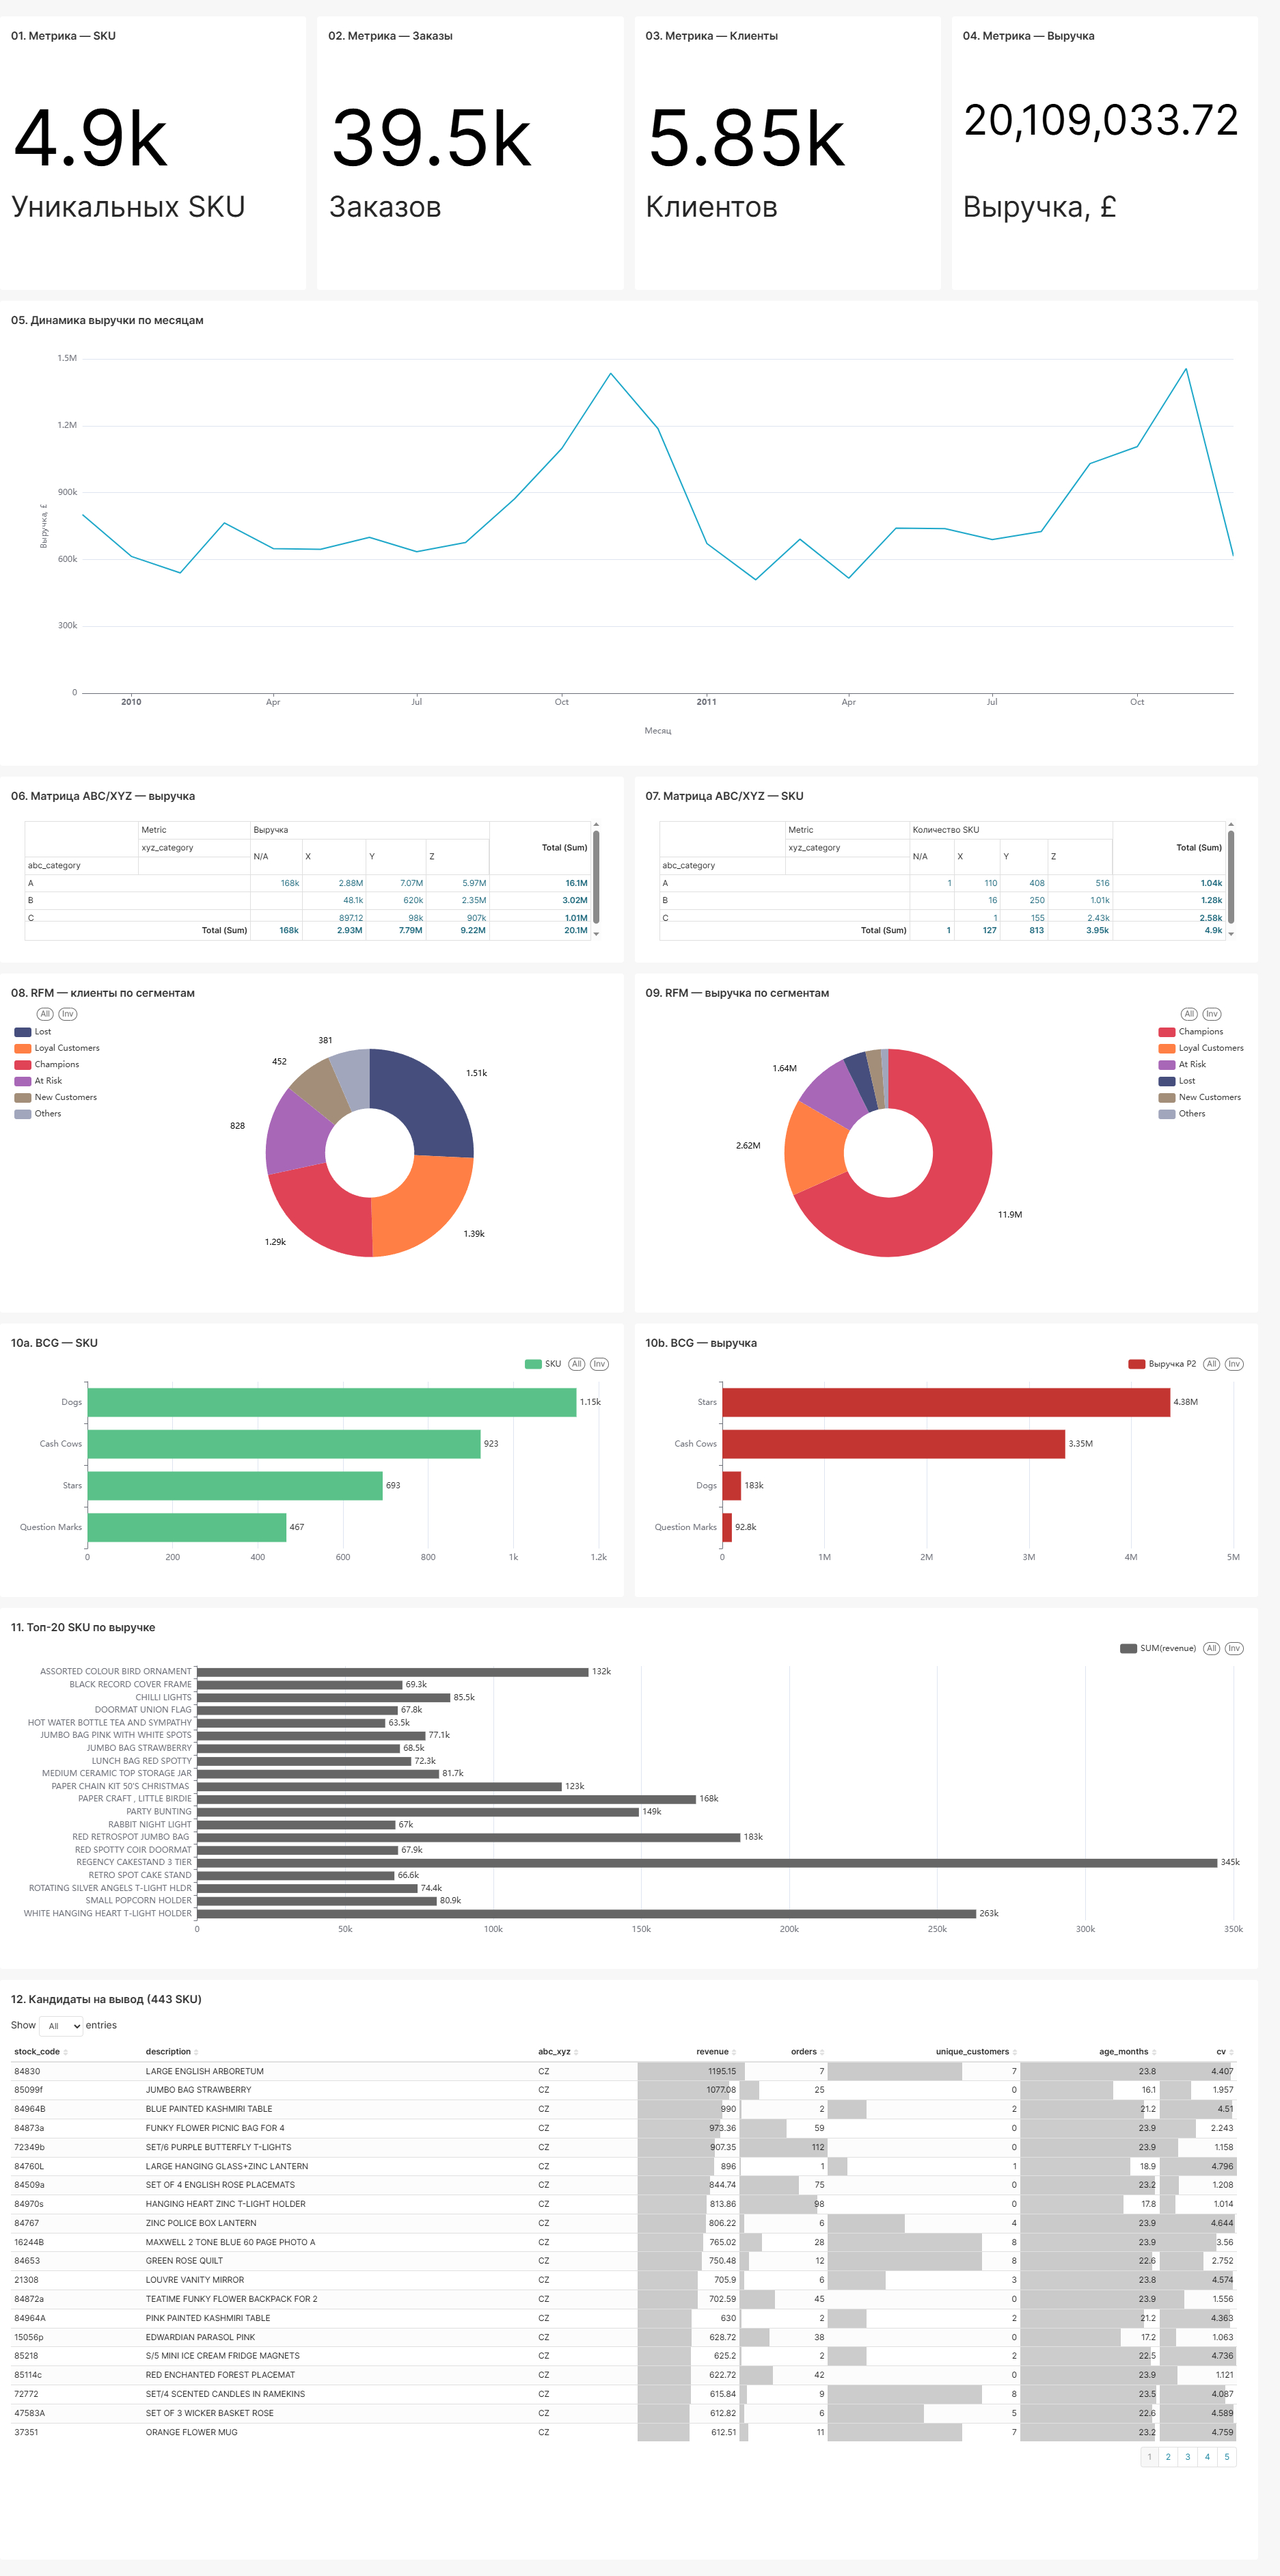
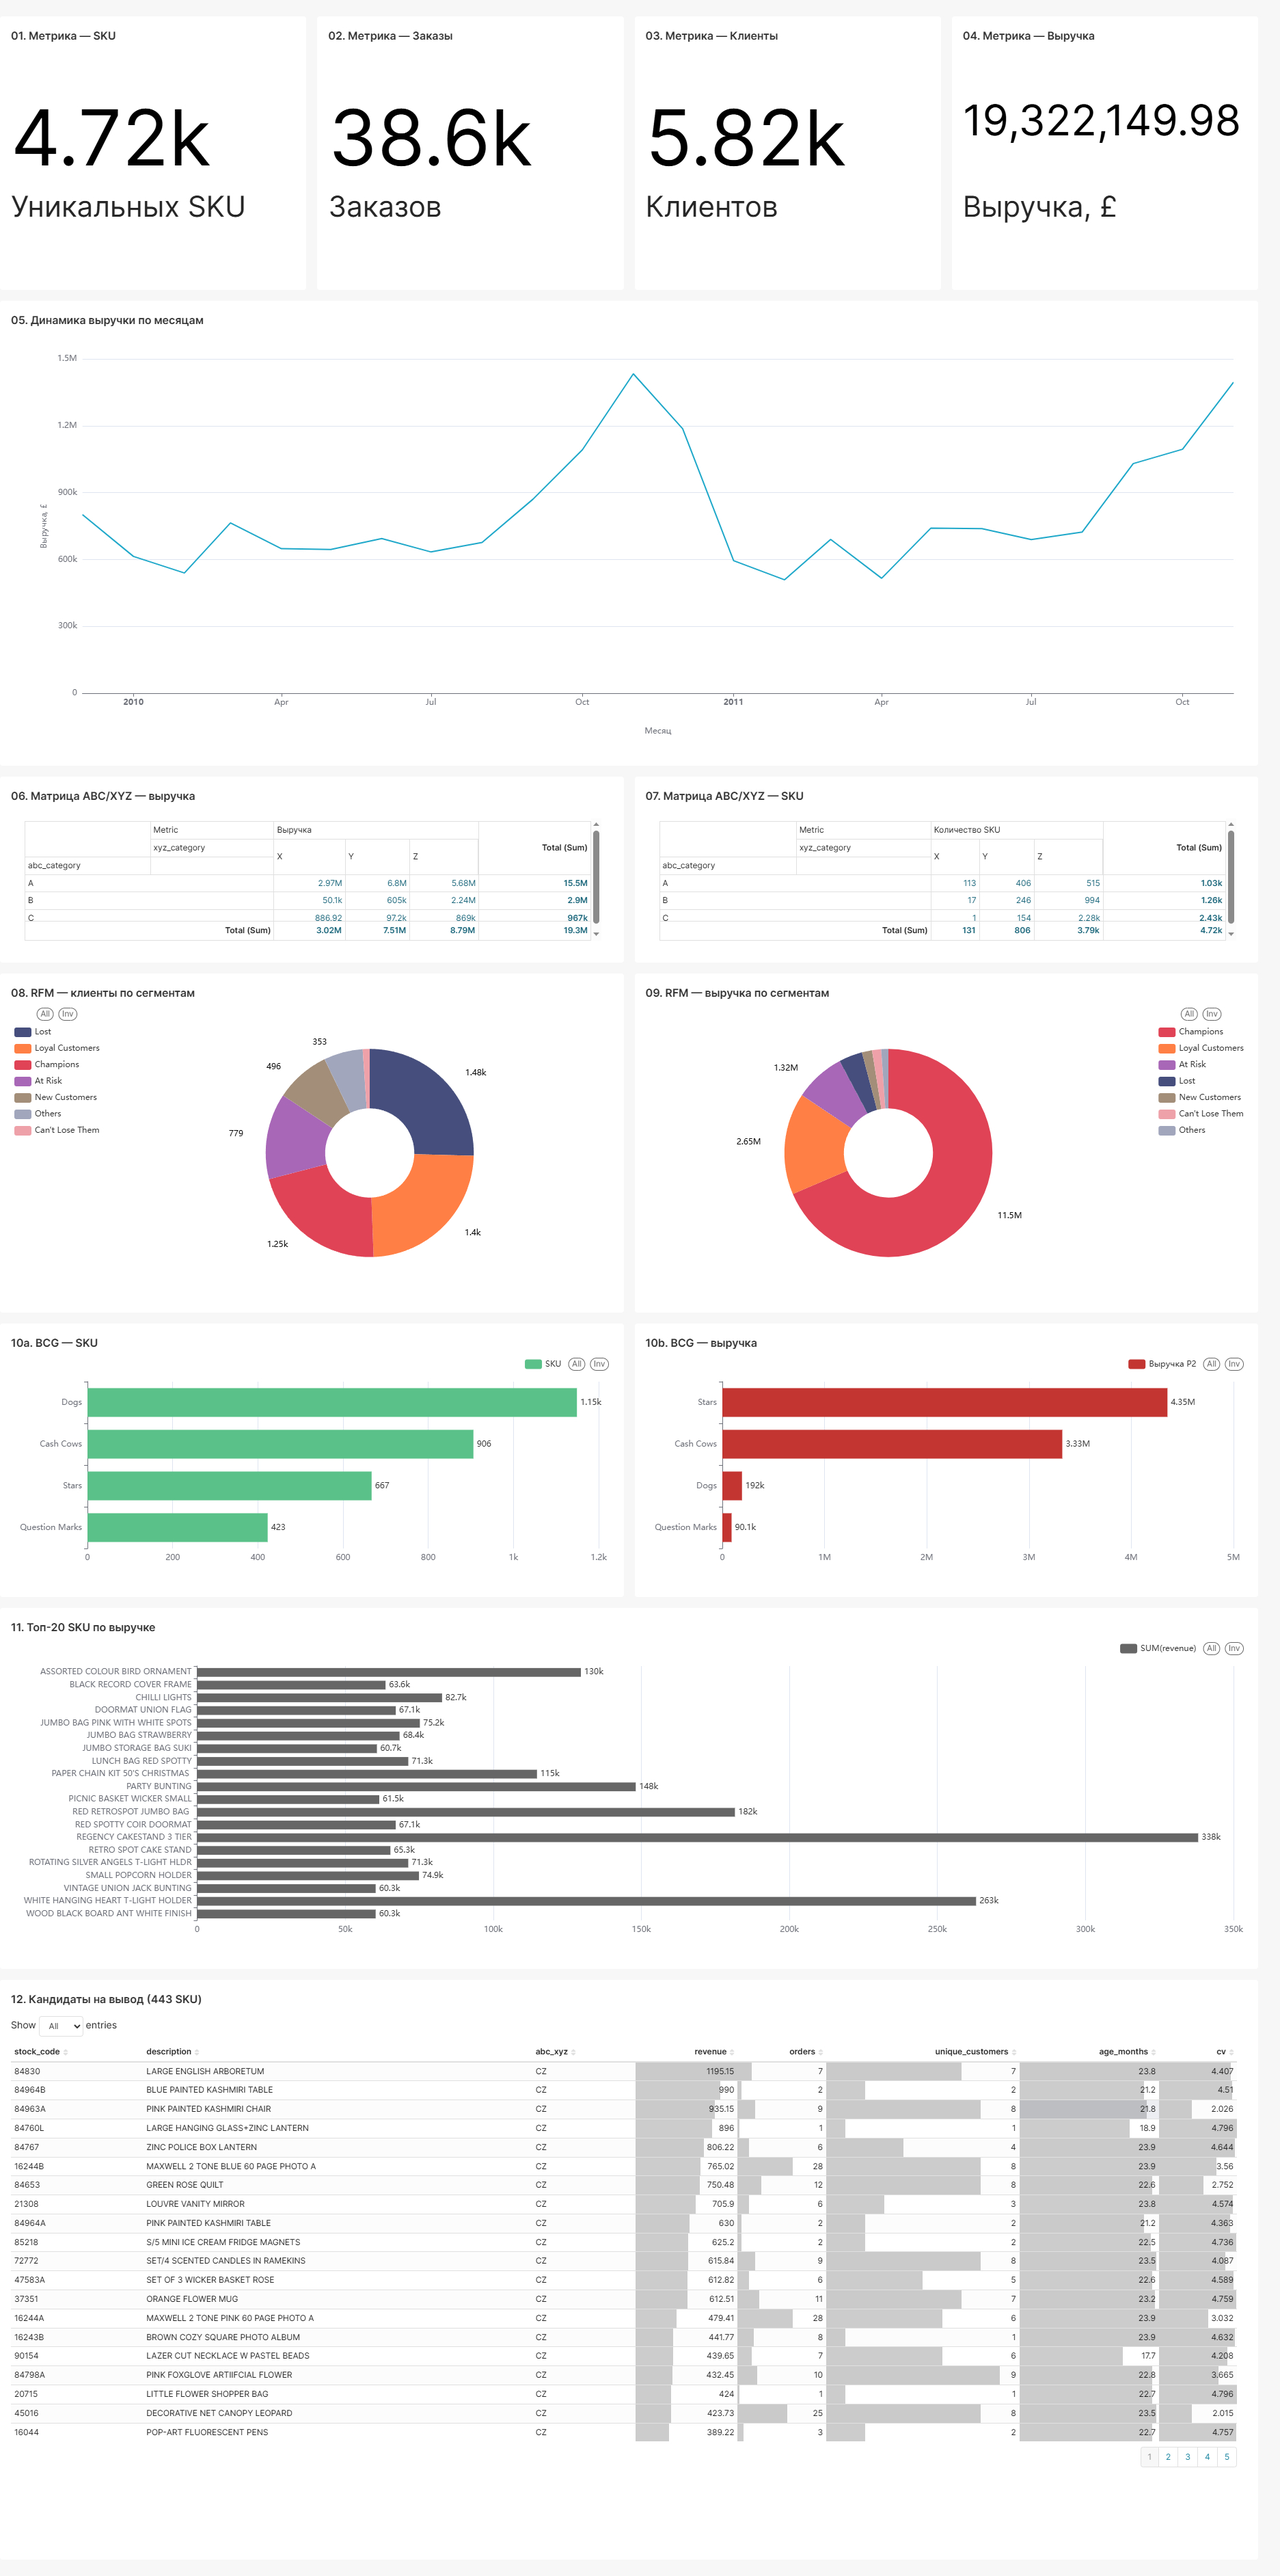
dashboard_superset

diff --git a/README.md b/README.md
@@ -102,7 +102,7 @@ URL: http://localhost:8088 (admin / admin)
 
 Settings → Import Dashboards → выбрать `docker/dashboards.zip`
 
-![Дашборд Superset](https://reports/dashboard_superset.jpg)
+![Дашборд Superset](reports/dashboard_superset.jpg)
 
 ## 📈 Ключевые результаты
 
